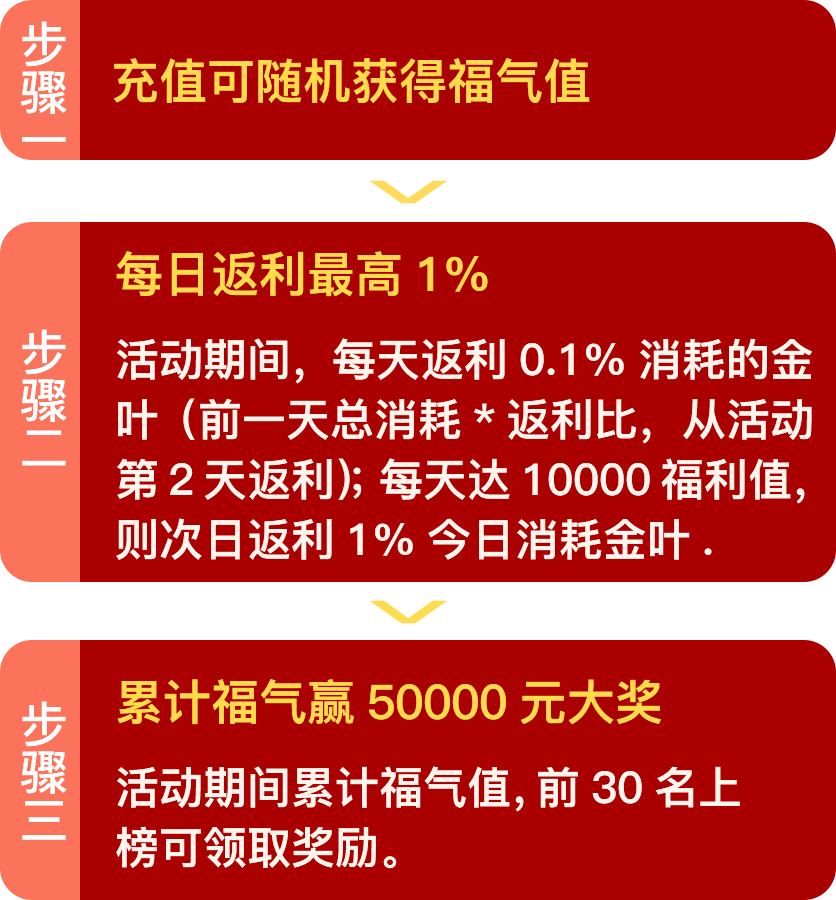
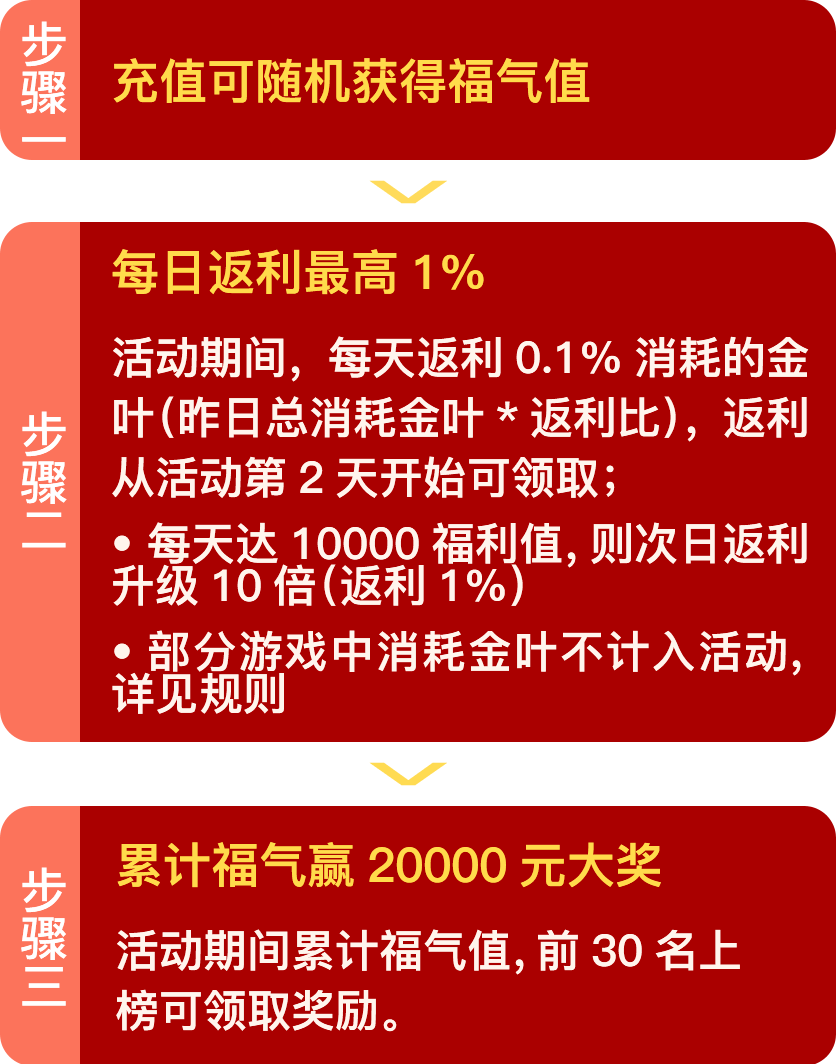
fixed

diff --git a/src/views/gatherHappiness/component/comPop.vue b/src/views/gatherHappiness/component/comPop.vue
@@ -8,30 +8,45 @@
       <div class="inner">
         <!-- 规则页面 -->
         <template v-if="value===1">
-          <div class="inner-container">
-            <p>
-              <span class="rule-header">①活动时间</span>
-              <span>2020年1月27日0点-2月2日24点，2月3日-4日发榜</span>
-            </p>
-            <p>
-              <span class="rule-header">②每日返利</span>
-              <span>活动期间，每天登录活动页可免费领取昨日总消耗金叶0.1%返利金叶（明天领取金叶=今天总消耗金叶*返利比）；充值随机获福气值，每天达到10000福气值，则次日金叶返利升级10倍（返利比1%）</span>
-            </p>
-            <p>
-              <span class="rule-header">③累计福气榜</span>
-              <span>活动期间所得福气可累计，前30名福气最高玩家可上榜赢取大奖。</span>
-            </p>
-            <p>
-              <span class="rule-header">④小提示</span>
-              <span>•每日返利需由玩家每天在“返利记录”页手动领取，2月4日24点前均可领取所得奖励，过时不予补偿；</span>
-              <span>•福气榜统计截止时间为2月2日24点，福气在充值后将自动累计到玩家榜单。</span>
-              <span>•平台保留对活动条款的最终解释权，如需咨询可联系在线客服。</span>
-            </p>
-          </div>
+          <ul class="inner-container">
+            <li>
+              <p class="rule-header">①活动时间</p>
+              <p>2020年1月27日0点-2月2日24点，2月3日-4日发榜</p>
+            </li>
+            <li>
+              <p class="rule-header">②每日返利</p>
+              <p>
+                •活动期间，每天登录活动页可免费领取昨日金叶总消耗的0.1%金叶返利（明天领取金叶=今天总消耗金叶*返利比），且在斗地主、麻将、跑得快、枪火英雄、套圈、天天飞机大战中消耗金叶不计入活动；
+              </p>
+              <p>
+                • 充值随机获福气值，每天达到1万福气值，则次日金叶返利比升级10倍（返利比1%）；
+              </p>
+              <p>
+                • 为次日返利金叶为整数，当天消耗金叶需达到1千以上。
+              </p>
+            </li>
+            <li>
+              <p class="rule-header">③累计福气榜</p>
+              <p>• 活动期间所得福气可累计，前30名福气最高玩家可上榜赢取大奖；</p>
+              <p>• 最终累计福气值一样，则先达成排名靠前。</p>
+            </li>
+            <li>
+              <p class="rule-header">④小提示</p>
+              <p>•每日返利需由玩家每天在“返利记录”页手动领取，2月4日24点前均可领取所得奖励，过时不予补偿；</p>
+              <p>•福气榜统计时间截至2月2日24点，福气在充值后将自动累计到玩家榜单，上榜奖励将由系统自动发放到账。</p>
+              <p>•平台保留对活动条款的最终解释权，如需咨询可联系在线客服。</p>
+            </li>
+            <li>
+              <p class="rule-header">⑤其他</p>
+              <p>平台保留对活动条款的最终解释权，如需咨询可联系在线客服。</p>
+            </li>
+          </ul>
         </template>
         <!-- 攻略页面 -->
         <template v-if="value===2">
-          <img src="../img/comPop/2/inner.png" class="guide-image" alt />
+          <div class="inner-container">
+            <img src="../img/comPop/2/inner.png" class="guide-image" alt />
+          </div>
         </template>
 
         <!-- 查看福气获得记录 -->
@@ -56,12 +71,20 @@
               </div>
             </div>
             <!-- 循环福气获得记录列表 -->
-            <ul class="record-inner">
-              <li class="record-inner-li" v-for="(item,key) in blessingList" :key="key">
-                <div>{{item.createTime}}</div>
-                <div>{{item.blessing}}</div>
-              </li>
-            </ul>
+            <template v-if="blessingList.length>0">
+              <ul class="record-inner">
+                <li class="record-inner-li" v-for="(item,key) in blessingList" :key="key">
+                  <div>{{item.createTime}}</div>
+                  <div>{{item.blessing}}</div>
+                </li>
+              </ul>
+            </template>
+            <template v-else>
+              <div class="empty">
+                <img src="../img/comPop/empty.png" alt=""><br>
+                <span>暂无记录</span>
+              </div>
+            </template>
           </div>
         </template>
 
@@ -87,19 +110,27 @@
             </div>
 
             <!-- 循环列表 -->
-            <ul class="record-inner">
-              <li class="rabate-list" v-for="(item,key) in rebateList" :key="key">
-                <div>{{item.createDate}}</div>
-                <div class="rebate-cell">{{item.rebate}}</div>
-                <!-- 领取按钮 -->
-                <div v-show='item.state === 0' class="btn receive"
-                  @click="toRebateReceive(item.id)">
-                </div>
-                <!-- 已领取 -->
-                <div v-show="item.state === 1" class="btn received">
-                </div>
-              </li>
-            </ul>
+            <template v-if="rebateList.length>0">
+              <ul class="record-inner">
+                <li class="rabate-list" v-for="(item,key) in rebateList" :key="key">
+                  <div>{{item.createDate}}</div>
+                  <div class="rebate-cell">{{item.rebate}}</div>
+                  <!-- 领取按钮 -->
+                  <div v-show='item.state === 0' class="btn receive"
+                    @click="toRebateReceive(item.id)">
+                  </div>
+                  <!-- 已领取 -->
+                  <div v-show="item.state === 1" class="btn received">
+                  </div>
+                </li>
+              </ul>
+            </template>
+            <template v-else>
+              <div class="empty">
+                <img src="../img/comPop/empty.png" alt=""><br>
+                <span>暂无记录</span>
+              </div>
+            </template>
           </div>
         </template>
       </div>
@@ -228,14 +259,26 @@ export default {
     }
     .guide-image {
       width: 4.18rem;
-      height: 4.5rem;
-    }
-    p {
-      display: grid;
-      margin-top: 0.06rem;
+      display: block;
+      margin: auto;
     }
   }
-
+  .empty {
+    text-align: center;
+    margin-top: 0.9rem;
+    font-weight: bold;
+    font-size: 0;
+    img {
+      width: 1rem;
+      height: 1rem;
+    }
+    span {
+      display: block;
+      margin-top: 0.3rem;
+      font-size: 0.24rem;
+      color: #850f1d;
+    }
+  }
   .title {
     position: relative;
     top: 2.8rem;

diff --git a/src/views/gatherHappiness/component/mainPage.vue b/src/views/gatherHappiness/component/mainPage.vue
@@ -10,7 +10,7 @@
       <img class="percent-bg" :src="require(`../img/percent${percent===100?'100':''}-bg.png`)"
         alt />
       <div class="control">
-        <div class="progess" :style="{width:percent+'%'}">
+        <div class="progess" :style="{width:activityInfo.state===1?percent+'%':'0%'}">
           <img src="../img/light.png" />
         </div>
         <div class="text">
@@ -21,9 +21,9 @@
       </div>
 
       <div class="tomorrow">
-        <span v-if="activityInfo.rebateAmount>0">明日返利：{{activityInfo.rebateAmount}}金叶</span>
         <span
-          v-else>今日消耗{{activityInfo.bettingAmount}}金叶，达到{{activityInfo.minBetting}}明日才有返利哦~</span>
+          v-if="activityInfo.rebateAmount===0 && activityInfo.state===1">今日消耗{{activityInfo.bettingAmount}}金叶，达到{{activityInfo.minBetting}}明日才有返利哦~</span>
+        <span v-else>明日返利：{{activityInfo.state===1?activityInfo.rebateAmount:0}}金叶</span>
       </div>
       <div class="today">
         <span>（明日返利=今日总消耗金叶*返利比）</span>
@@ -36,6 +36,7 @@
       <div class="button">
         <div class="button-firstrow" @click="toMall()">
           <img v-if="activityInfo.state===1" src="../img/chongzhi.png" alt />
+          <img v-else src="../img/chongzhi_grey.png" alt />
         </div>
         <div class="button-secondrow" :class="{'red-dot':activityInfo.unReceiveNum}"
           @click="openPop(4)">
@@ -72,6 +73,7 @@ export default {
     toMall () {
       GLOBALS.marchSetsPoint('A_H5PT0234002726') // H5平台-集福气赢大奖页-充值领福气按钮点击
       if (this.activityInfo.state === 1) {
+        localStorage.setItem('originDeffer', location.href)
         location.href = '/xmWap/#/payment/'
       }
     }
@@ -111,7 +113,7 @@ export default {
       }
     }
     .here {
-      width: 1.22rem;
+      width: 1.28rem;
       height: 0.94rem;
       position: relative;
       animation: move 2s linear infinite;
@@ -236,8 +238,8 @@ export default {
           position: absolute;
           top: 0.1rem;
           left: 4.7rem;
-          width: 0.12rem;
-          height: 0.12rem;
+          width: 0.16rem;
+          height: 0.16rem;
           border-radius: 50%;
           background: #fe1919;
         }

diff --git a/src/views/gatherHappiness/component/rankPage.vue b/src/views/gatherHappiness/component/rankPage.vue
@@ -9,7 +9,7 @@
           <img class="rank-icon" :src="item.rank?require(`../img/second/${item.rank}.png`):''"
             alt />
           <div class="headpic">
-            <img :src="item.profilePhoto|filter" alt />
+            <img :src="item.profilePhoto || defaultImg |filter" alt />
           </div>
           <div class="name">
             <span>{{item.nickname}}</span>
@@ -111,7 +111,8 @@ export default {
       lastTwoData: [],
       rankList: [],
       myRankInfo: {},
-      defaultIndex: 5
+      defaultIndex: 5,
+      defaultImg: '/cdn/common/images/common/img_photo.png'
     }
   },
   mounted () {
@@ -140,6 +141,7 @@ export default {
     },
     toMall () {
       GLOBALS.marchSetsPoint('A_H5PT0234002740') // H5平台-集福气赢大奖页-我要福气按钮点击
+      localStorage.setItem('originDeffer', location.href)
       location.href = '/xmWap/#/payment/'
     }
   },
@@ -313,7 +315,7 @@ export default {
         width: 1.32rem;
         height: 1.32rem;
         border-radius: 50%;
-        margin-top: -0.18rem;
+        margin-top: -0.2rem;
       }
       .prize-tip {
         top: 1.9rem;

diff --git a/src/views/gatherHappiness/component/rank.vue b/src/views/gatherHappiness/component/rank.vue
@@ -32,7 +32,7 @@
             <template v-else>
               <p><span>您暂<em>未上榜</em>,下次继续加油哟~</span></p>
               <div @click="close">
-                <div class="noprize-button">我知道啦</div>
+                <img src="../img/rank/button_ikown.png" alt />
               </div>
             </template>
           </div>
@@ -257,18 +257,6 @@ export default {
             em {
               color: #920006;
             }
-          }
-          .noprize-button {
-            width: 2.8rem;
-            height: 0.7rem;
-            background: rgba(255, 219, 72, 1);
-            border-radius: 0.35rem;
-            display: flex;
-            justify-content: center;
-            align-items: center;
-            font-size: 0.26rem;
-            font-weight: 800;
-            color: rgba(170, 0, 0, 1);
           }
         }
       }

diff --git a/src/views/gatherHappiness/App.vue b/src/views/gatherHappiness/App.vue
@@ -60,6 +60,7 @@ export default {
     }
   },
   mounted () {
+    localStorage.removeItem('originDeffer')
     this.getActivityInfo()
   },
   computed: {
@@ -106,7 +107,7 @@ export default {
       this.myRankInfo = _get(res, 'data', {})
       const code = _get(res, 'code', 0)
       if (code === 200) {
-        this.isRankPopOpen = true
+        this.isRankPopOpen = this.myRankInfo.popup
       }
     },
     tabClick (key) {

diff --git a/src/views/gatherHappiness/component/gamePop.vue b/src/views/gatherHappiness/component/gamePop.vue
@@ -14,8 +14,7 @@
             <img src="../img/play/button.png" alt />
           </div>
           <div class="play-bottom-tips">
-            小贴士：在斗地主、麻将、跑得快、枪火英雄、
-            套圈中消耗金叶不计入任务中
+            小贴士：部分游戏不计入活动，详见规则
           </div>
         </div>
       </div>

diff --git a/src/views/gatherHappiness/component/congratulation.vue b/src/views/gatherHappiness/component/congratulation.vue
@@ -73,6 +73,7 @@ export default {
     },
     toMall () {
       this.isPopOpen = false
+      localStorage.setItem('originDeffer', location.href)
       location.href = '/xmWap/#/payment/'
     }
   },
